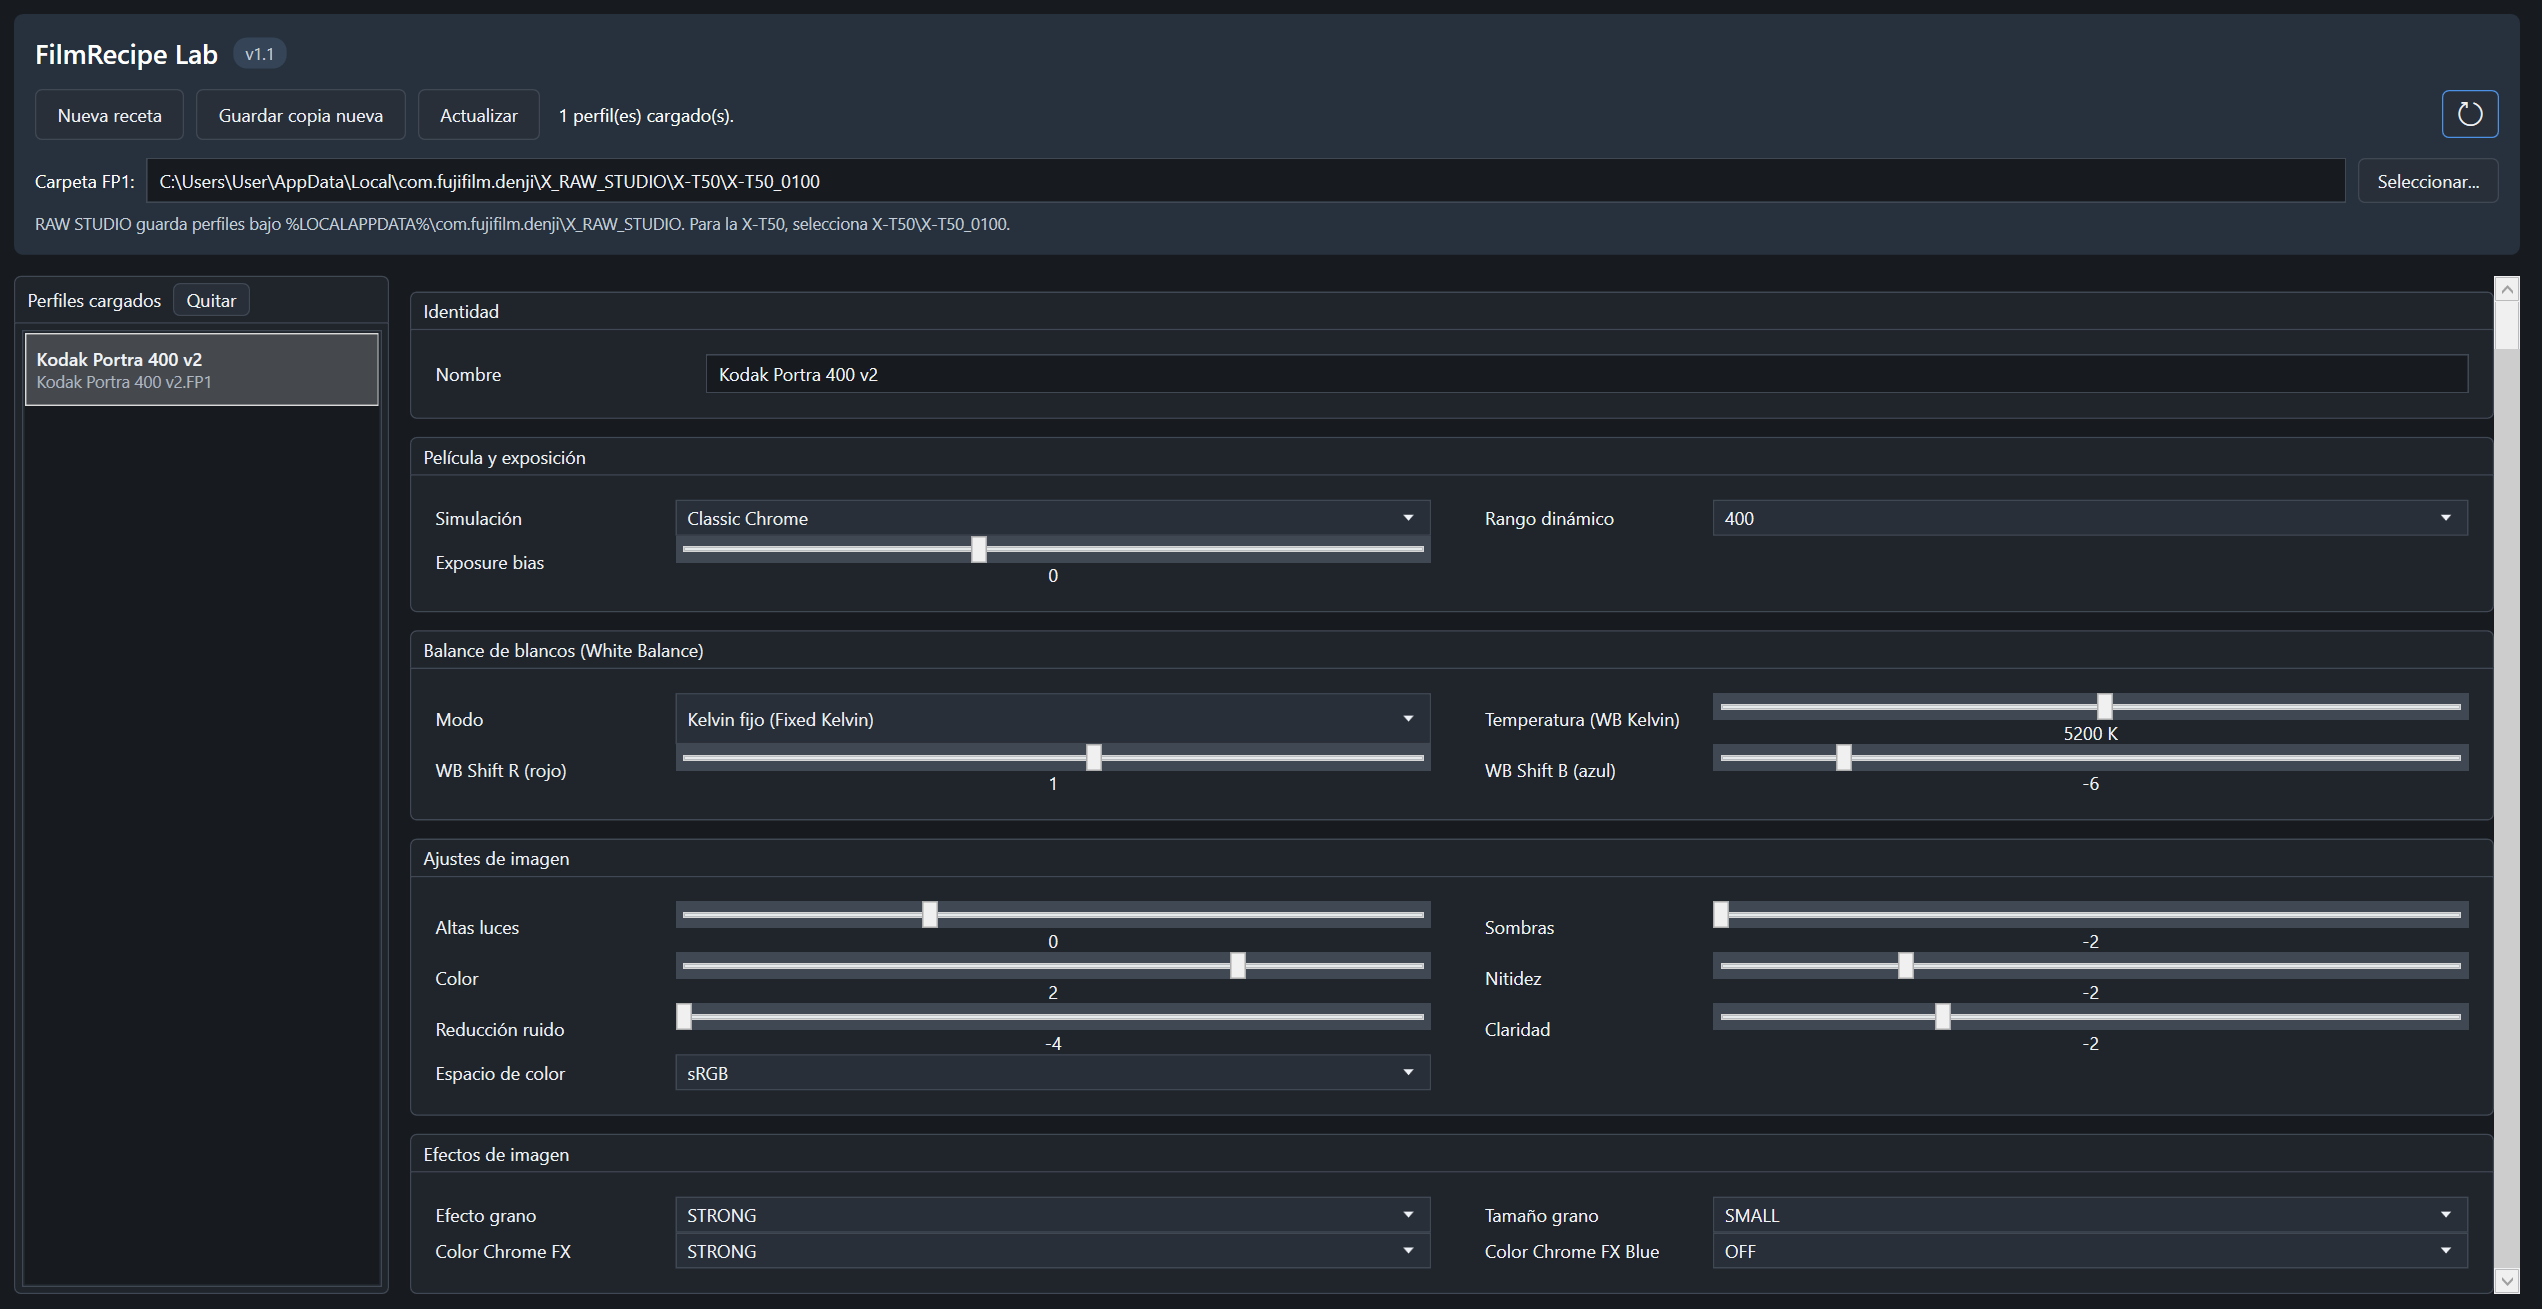
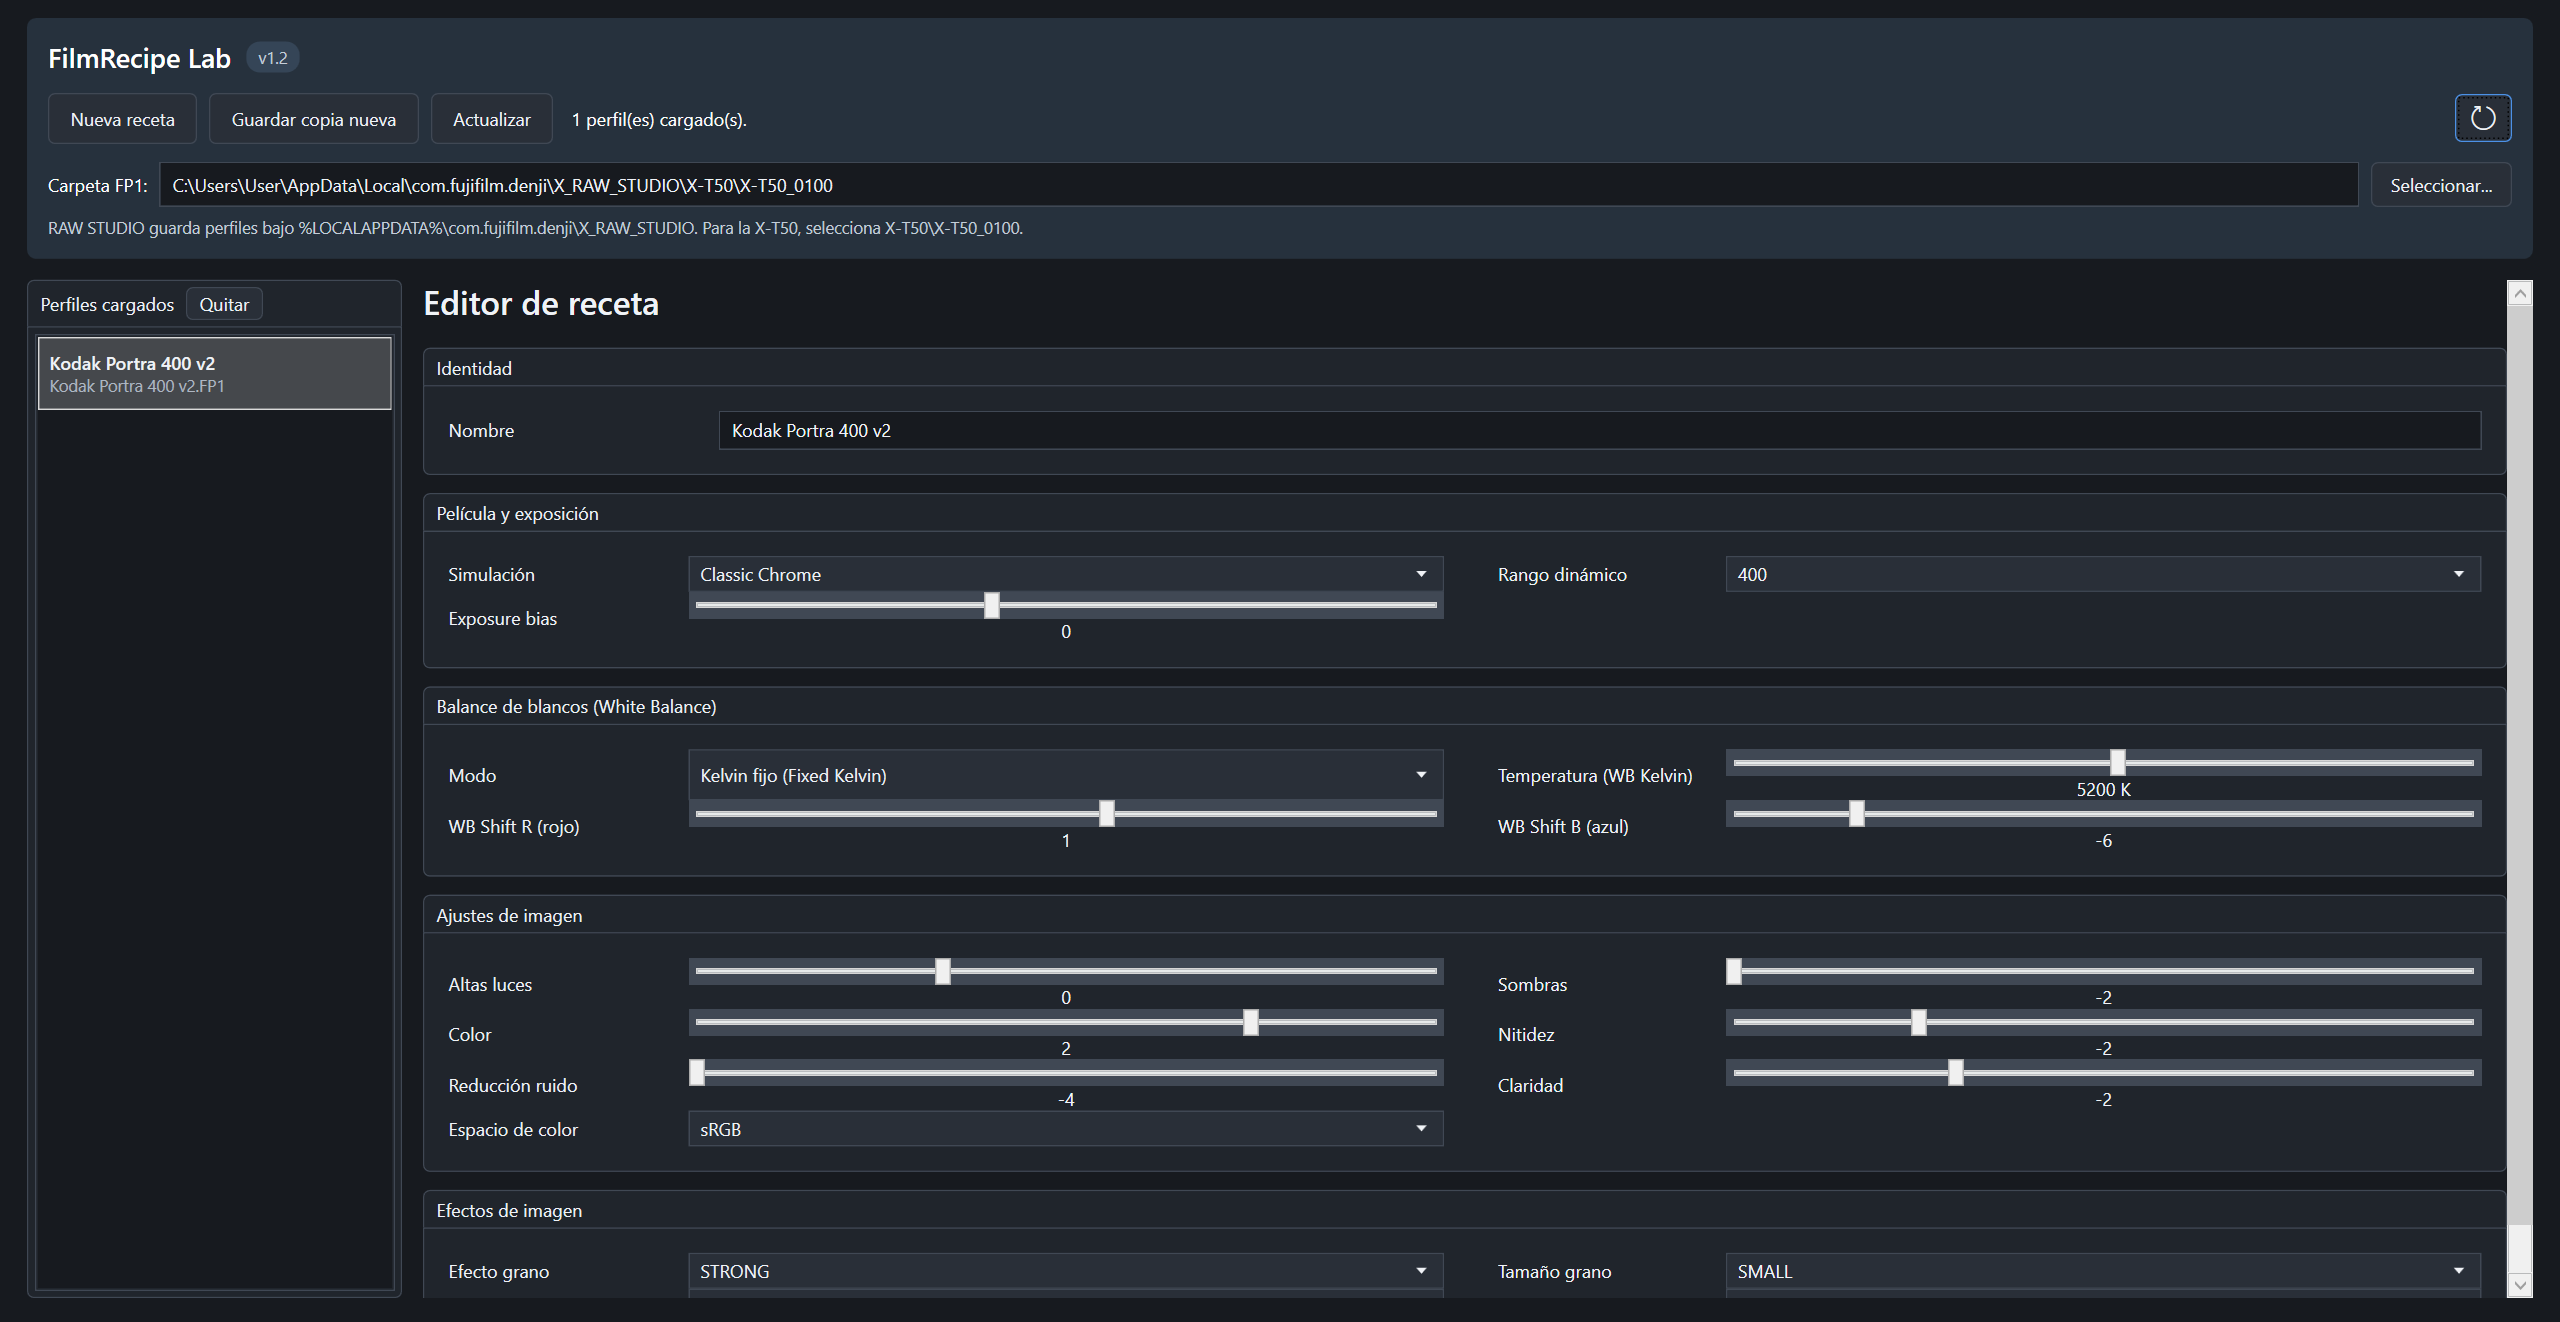
update version to 1.2, enhance release workflow, and improve documentation

diff --git a/spec.md b/spec.md
@@ -1,4 +1,8 @@
-# FlimRecipe LAb
+# FilmRecipe Lab
+
+## Versión vigente
+- Versión de la aplicación: `1.2`.
+- La versión del ejecutable se define en `FilmRecipeLab.Presentation.csproj`; la etiqueta de release correspondiente es `v1.2`.
 
 ## Objetivo
 - Aplicación de escritorio para gestionar y editar recetas de la Fujifilm X-T50.
@@ -6,10 +10,13 @@
 - Permite importar perfiles existentes, editarlos y exportarlos conservando la estructura del perfil.
 - Permitirá importar recetas desde capturas de pantalla mediante OCR en una fase posterior.
 
-## Alcance version inicial
+## Alcance implementado en la versión 1.2
 - Aplicación de escritorio para Windows 11 mediante WPF sobre C#/.NET.
 - Carga de uno o varios perfiles `.FP1` de la Fujifilm X-T50.
+- Creación de recetas X-T50 desde cero y guardado del borrador como un nuevo perfil `.FP1`.
 - Modelo de receta tipado para los parámetros definidos.
+- Edición del balance de blancos, temperatura Kelvin y desplazamientos rojo/azul desde una sección agrupada.
+- Edición de `Color Chrome FX` y `Color Chrome FX Blue` mediante selectores de nivel.
 - Exportación de perfiles modificados a `.FP1`.
 - Conservación de propiedades XML que todavía no forman parte del modelo editable.
 - Validación manual realizada: el XML generado se abre correctamente en Fujifilm RAW Studio.
@@ -65,14 +72,14 @@ Parámetros editables de la receta:
 | `Sharpness` | Número | `-4`,`4` | `1` | `0` | Nitidez |
 | `NoisReduction` | Número | `-4`,`4` | `1` | `0` | Mantener el nombre original del XML |
 | `Clarity` | Número | `-5`,`5` | `1` | `0` | Claridad |
-| `WhiteBalance` | Código/opción | `INVALID`,`Auto`,`Auto_Ambience`,`Auto_White`,`Custom1`,`Custom2`,`Custom3`,`Daylight`,`FLight1`,`FLight2`,`FLight3`,`Incand`,`Shade`,`Temperature`,`UWater` | - | `INVALID` | Códigos internos observados en los perfiles. |
-| `WBShiftR` | Número | `-9`,`9` | `1` | `0` | Ajuste de balance hacia rojo |
-| `WBShiftB` | Número | `-9`,`9` | `1` | `0` | Ajuste de balance hacia azul |
+| `WhiteBalance` | Código/opción | `INVALID`,`Auto`,`Auto_Ambience`,`Auto_White`,`Custom1`,`Custom2`,`Custom3`,`Daylight`,`FLight1`,`FLight2`,`FLight3`,`Incand`,`Shade`,`Temperature`,`UWater` | - | `INVALID` | Códigos internos observados en los perfiles. `Temperature` se presenta como `Kelvin fijo (Fixed Kelvin)` en la interfaz. |
+| `WBShiftR` | Número | `-9`,`9` | `1` | `0` | Ajuste de balance hacia rojo; se muestra como `WB Shift R` junto al balance de blancos. |
+| `WBShiftB` | Número | `-9`,`9` | `1` | `0` | Ajuste de balance hacia azul; se muestra como `WB Shift B` junto al balance de blancos. |
 | `WBColorTemp` | Temperatura (Kelvin) | `0K` o de `2500K` a `10000K` | `100K` | `0K` | Temperatura de la luz cuando `WhiteBalance` es `Temperature`; en otro caso se utiliza `0K`. La conversión de lectura y escritura está implementada. |
 | `GrainEffect` | Opción | `OFF`,`STRONG`,`WEAK` | - | `OFF` | Valores observados en los perfiles. |
 | `GrainEffectSize` | Opción | `LARGE`,`SMALL` | - | `SMALL` | Tamaño del grano |
-| `ChromeEffect` | Opción | `OFF`,`STRONG` | - | `OFF` | Valores observados en los perfiles. `WEAK` no aparece en los ejemplos. |
-| `ColorChromeBlue` | Opción | `OFF`,`STRONG`,`WEAK` | - | `OFF` | Valores observados en los perfiles. |
+| `ChromeEffect` | Opción | `OFF`,`STRONG`,`WEAK` | - | `OFF` | Se muestra como `Color Chrome FX`; el selector permite los tres niveles. |
+| `ColorChromeBlue` | Opción | `OFF`,`STRONG`,`WEAK` | - | `OFF` | Se muestra como `Color Chrome FX Blue`; valores observados en los perfiles. |
 | `SmoothSkinEffect` | Opción | `OFF` | - | `OFF` | Solo aparece `OFF` en los ejemplos; valores activos quedan pendientes. |
 | `BlackImageTone` | Número | `-18`,`18` | 1 | `0` | Tono monocromático (solo vale en peliculas especificas) |
 | `MonochromaticColor_RG` | Número | `-18`,`18` | 1 | `0` | Color monocromático (solo vale en peliculas especificas ) |

diff --git a/README.md b/README.md
@@ -18,6 +18,9 @@ El proyecto está limitado intencionadamente a la X-T50. No busca soportar otras
 - Ruta predeterminada de RAW STUDIO: `%LOCALAPPDATA%\com.fujifilm.denji\X_RAW_STUDIO\X-T50\X-T50_0100`.
 - Recarga manual de perfiles externos mediante el botón con icono de actualizar.
 - Edición visual mediante controles deslizantes y campos opcionales.
+- Controles para `Color Chrome FX` y `Color Chrome FX Blue`, con niveles `OFF`, `WEAK` y `STRONG`.
+- Balance de blancos agrupado con temperatura Kelvin y desplazamientos `WB Shift R` y `WB Shift B`.
+- El modo `Temperature` se muestra como `Kelvin fijo (Fixed Kelvin)` para asociarlo con recetas externas.
 - `ExposureBias` mostrado como fracciones como `1/3`, `2/3` o `1 1/3`, mientras se conserva internamente como valor decimal.
 - Lista que muestra nombre y archivo `.FP1` asociado.
 - Marca azul en las recetas con cambios pendientes de actualizar o guardar.
@@ -27,7 +30,7 @@ El proyecto está limitado intencionadamente a la X-T50. No busca soportar otras
 
 ## Vista Previa
 
-![FilmRecipe Lab 1.0](docs/screenshots/Main-Window.png)
+![Vista previa de FilmRecipe Lab](docs/screenshots/Main-Window.png)
 
 ## Uso
 
@@ -106,8 +109,8 @@ dotnet publish src/FilmRecipeLab.Presentation/FilmRecipeLab.Presentation.csproj 
 
 1. Añade en `Resources/ReleaseNotes.md` un apartado `## X.Y` con los cambios de esa versión.
 2. Abre la pestaña **Actions** del repositorio y selecciona **Crear release**.
-3. Pulsa **Run workflow**, elige la rama y escribe la versión sin prefijo `v` (por ejemplo, `1.1`).
-4. Pulsa **Run workflow** para ejecutar las pruebas, publicar el ejecutable autónomo y crear una release con la etiqueta `v1.1`.
+3. Pulsa **Run workflow**, elige la rama y escribe la versión sin prefijo `v` (por ejemplo, `1.2`).
+4. Pulsa **Run workflow** para ejecutar las pruebas, publicar el ejecutable autónomo y crear una release con la etiqueta `v1.2`.
 
 El body de cada release se extrae de su sección correspondiente en `Resources/ReleaseNotes.md`; si no existe o está vacía, el workflow falla antes de crear la release. El archivo `FilmRecipeLab.exe` quedará adjunto. Usa una sección y una versión nuevas para cada publicación.
 
